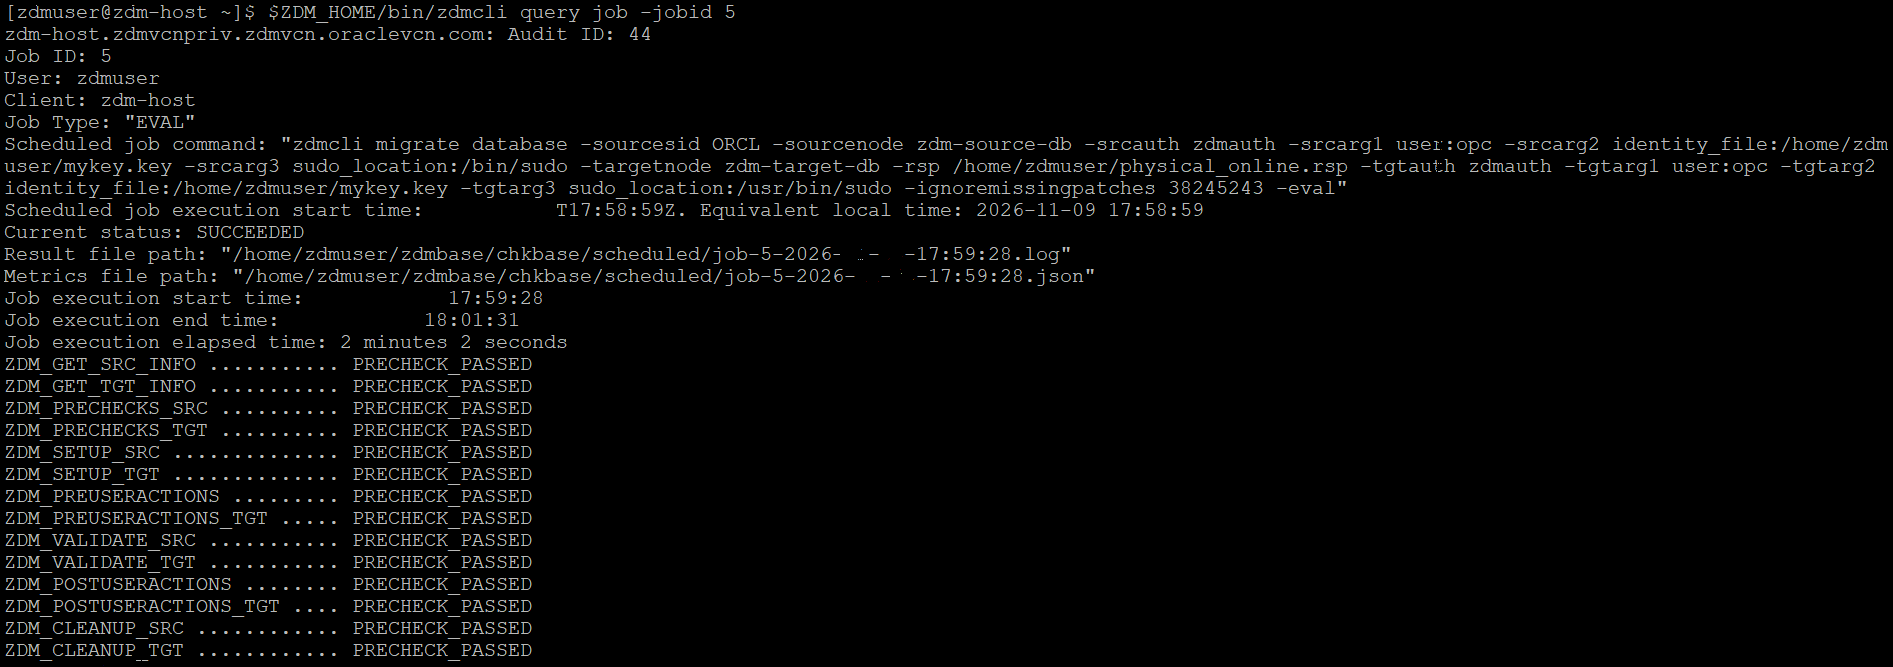
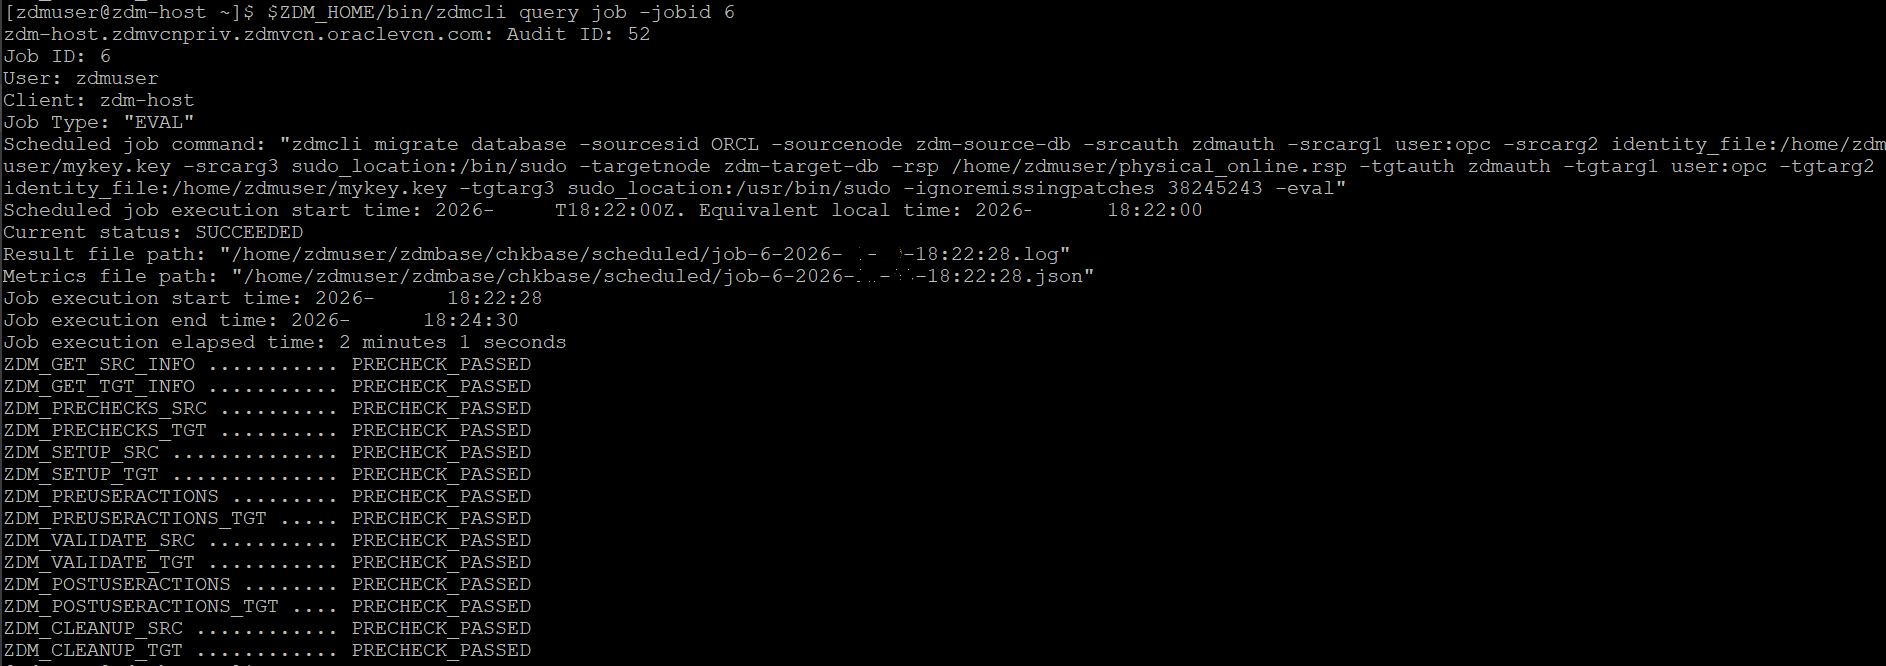
commit

Changed region(s): [[0.0, 0.0, 1.0, 1.0], [0.1538, 0.0, 0.3998, 0.0601]]

diff --git a/zdm-physical-online-direct-data-transfer/migrate-db/migrate-db.md b/zdm-physical-online-direct-data-transfer/migrate-db/migrate-db.md
@@ -168,13 +168,13 @@ Database migration evaluation allows you to check whether the pre-requisites for
 
    Please provide the SYS password of source database when asked.
 
-   Also note down the migration job ID which is 24 in this case.
+   Also note down the migration job ID which is **6** in this case.
 
 5. Monitor the database migration evaluation.
 
    Check the status of database migration evaluation using below command.
 
-   **$ZDM_HOME/bin/zdmcli query job -jobid 5**
+   **$ZDM_HOME/bin/zdmcli query job -jobid 6**
 
    Here 5 is the jobid.
 
